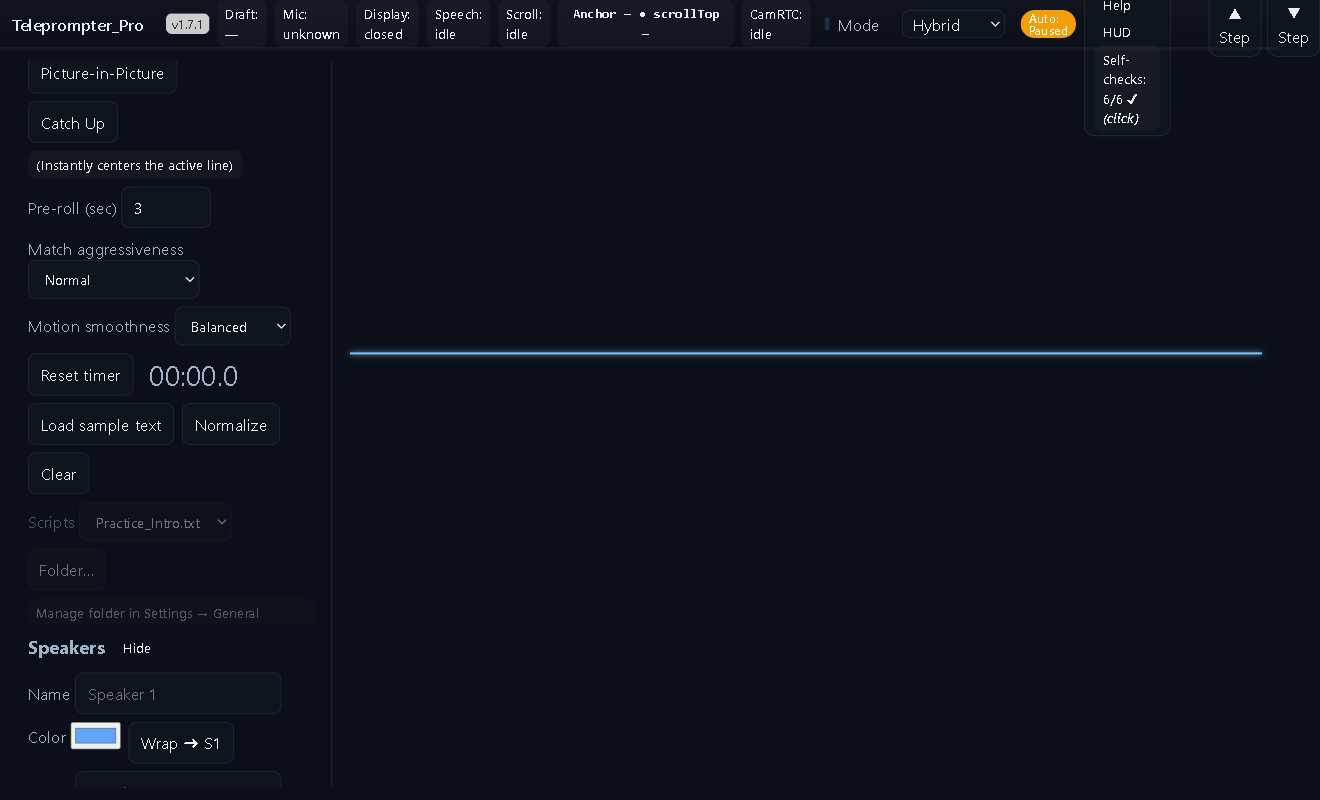
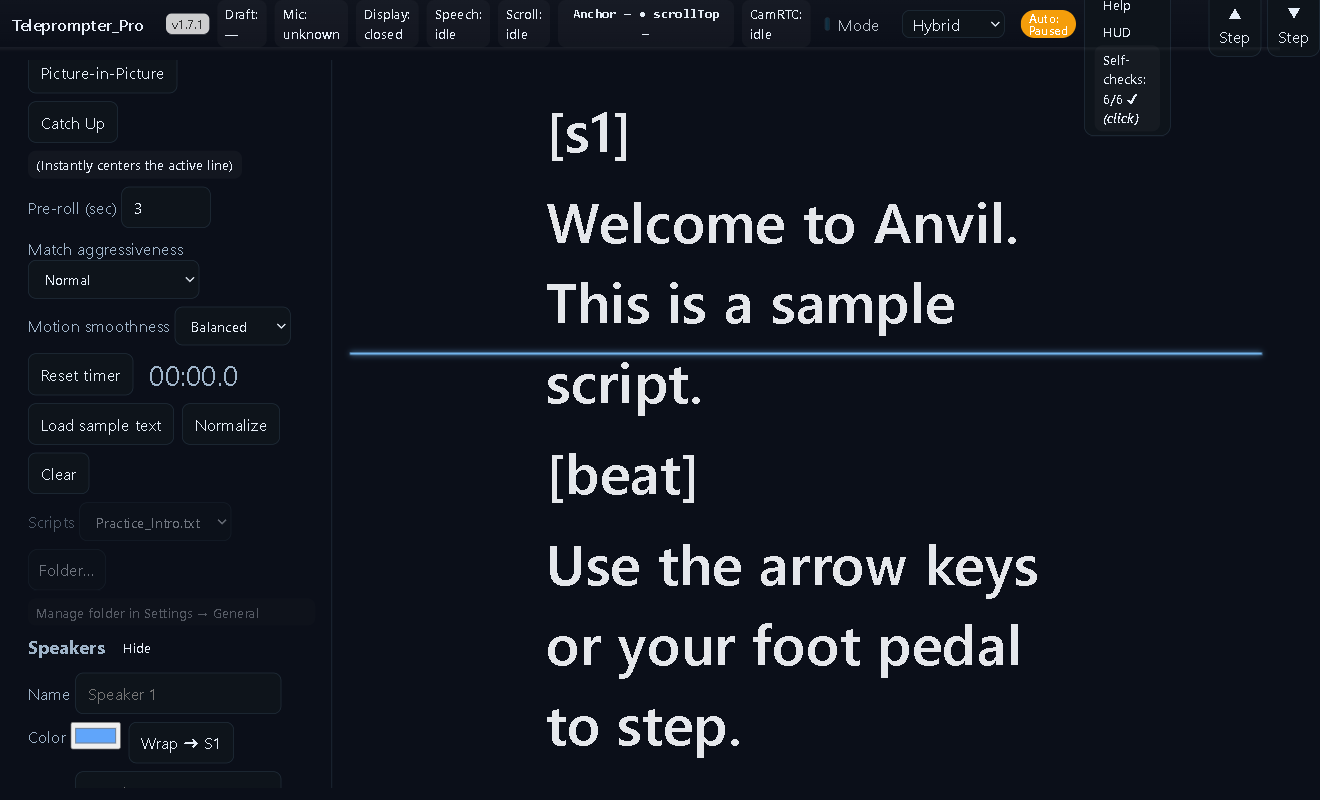
feat: implement renderScript function to dynamically render script lines in the UI

diff --git a/src/features/script-ingest.ts b/src/features/script-ingest.ts
@@ -1,3 +1,4 @@
+import { renderScript } from '../render-script';
 // src/features/script-ingest.ts
 // Wire mapped-folder file selection to teleprompter content.
 // Reads File or FileSystemFileHandle; injects into target or emits events.
@@ -151,12 +152,30 @@ try {
     document.addEventListener('tp:script-load', (ev: any) => {
       try {
         const d = ev?.detail || {};
-        const text = typeof d?.text === 'string' ? d.text : '';
         const ed = document.querySelector('#editor') as HTMLTextAreaElement | null;
-        if (ed) ed.value = text ?? '';
-        const alt = document.querySelector('#scriptInput') as HTMLTextAreaElement | null;
-        if (alt) alt.value = text ?? '';
-        try { console.log('[INGEST] loaded', d?.name || '(unnamed)'); } catch {}
+        if (typeof d?.text === 'string') {
+          const t = d.text as string; const name = d.name || 'Untitled';
+          if (ed) ed.value = t;
+          try { renderScript(t); } catch {}
+          try { console.log('[INGEST] loaded', name || '(unnamed)'); } catch {}
+          try { document.dispatchEvent(new CustomEvent('tp:script-loaded', { detail: { name, length: t.length } })); } catch {}
+          return;
+        }
+        // Optional legacy: File or Handle under detail.fileOrHandle or detail.file
+        (async () => {
+          try {
+            const fh = d?.fileOrHandle || d?.file || null;
+            const file = fh && typeof fh.getFile === 'function' ? await fh.getFile() : fh;
+            if (file && typeof file.text === 'function') {
+              const t = await file.text();
+              const name = file.name || 'Untitled';
+              if (ed) ed.value = t;
+              try { renderScript(t); } catch {}
+              try { console.log('[INGEST] loaded (file)', name); } catch {}
+              try { document.dispatchEvent(new CustomEvent('tp:script-loaded', { detail: { name, length: t.length } })); } catch {}
+            }
+          } catch (e) { try { console.warn('[INGEST] legacy path failed', e); } catch {} }
+        })();
       } catch {}
     }, { once: false });
     w.__ingestWired = true;

diff --git a/src/render-script.ts b/src/render-script.ts
@@ -1,0 +1,29 @@
+// src/render-script.ts
+export function renderScript(text: string) {
+  const root =
+    (document.querySelector('#script') as HTMLElement | null) ||
+    (document.querySelector('.script') as HTMLElement | null);
+
+  if (!root) {
+    try { console.warn('[render] #script container not found'); } catch {}
+    return;
+  }
+
+  const lines = String(text ?? '').replace(/\r/g, '').split('\n');
+  const frag = document.createDocumentFragment();
+
+  // clear & (re)build
+  try { root.textContent = ''; } catch {}
+  for (let i = 0; i < lines.length; i++) {
+    const div = document.createElement('div');
+    div.className = 'line';
+    (div as any).dataset.i = String(i);
+    div.textContent = lines[i];
+    frag.appendChild(div);
+  }
+  try { root.appendChild(frag); } catch {}
+
+  try { (root as any).dataset.lineCount = String(lines.length); } catch {}
+  try { document.dispatchEvent(new CustomEvent('tp:render:done', { detail: { lineCount: lines.length } })); } catch {}
+  try { (document.scrollingElement as any)?.scrollTo?.(0, 0); } catch {}
+}
